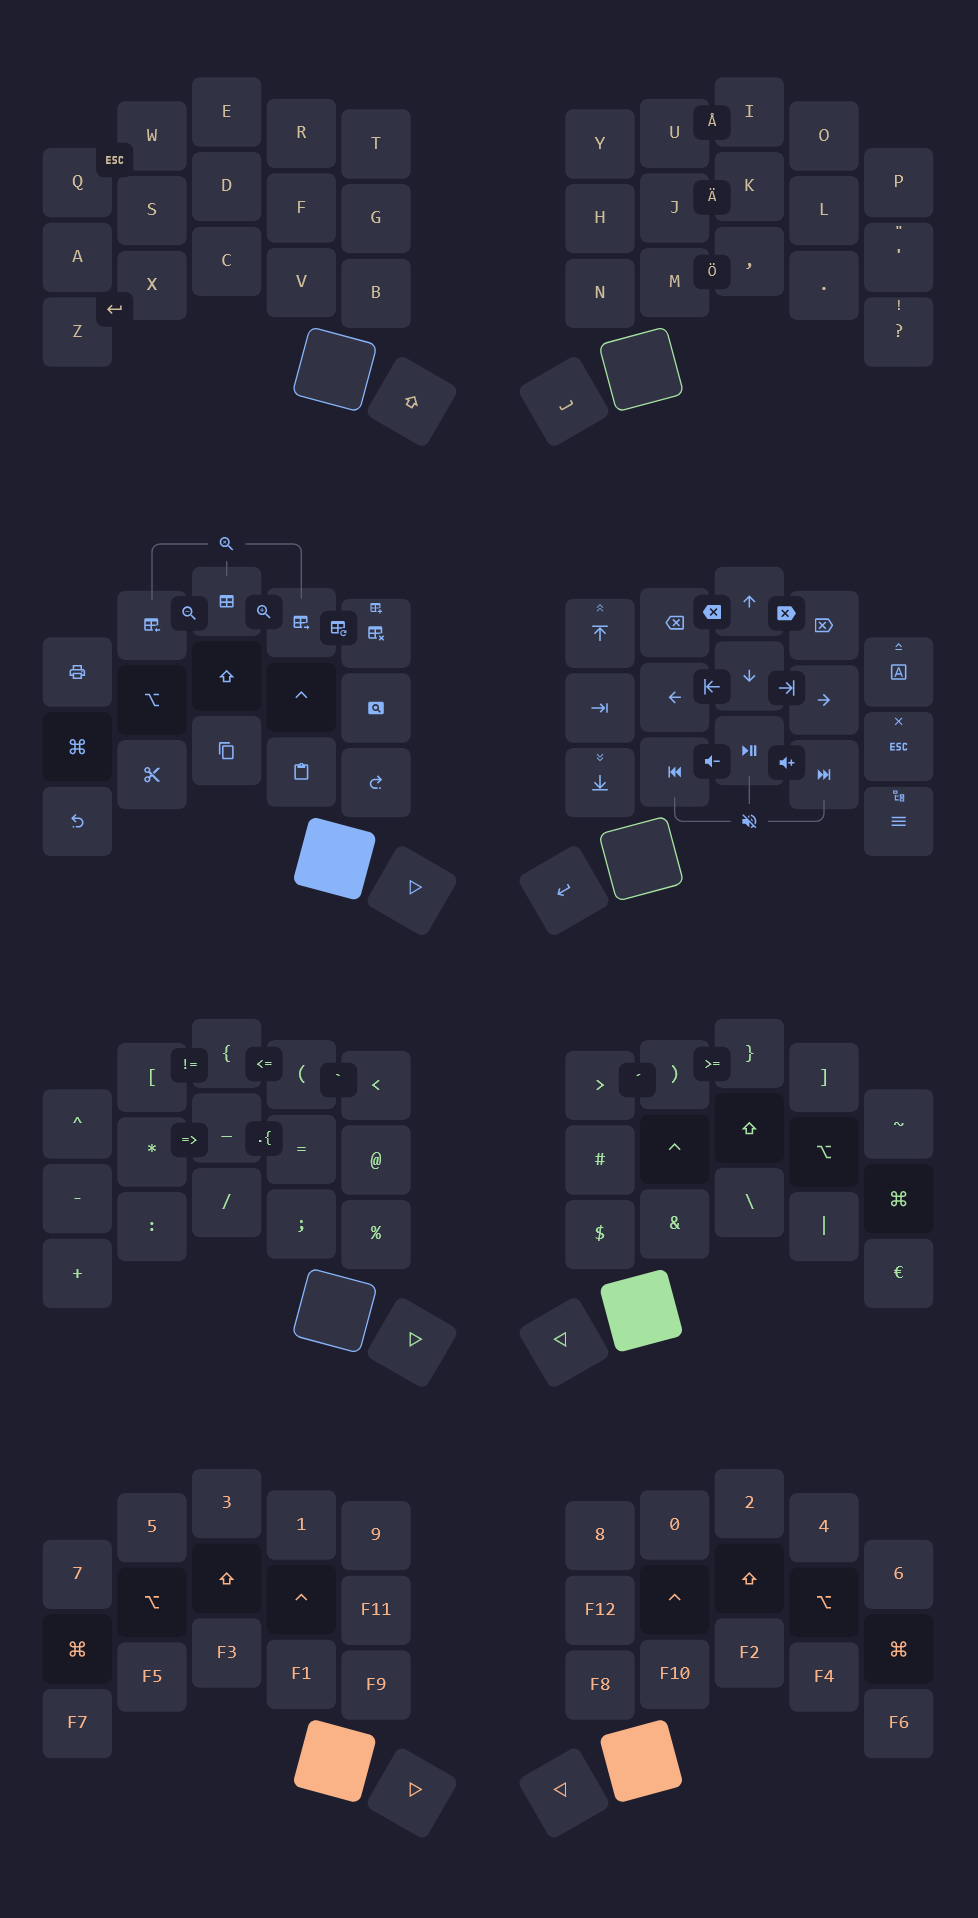
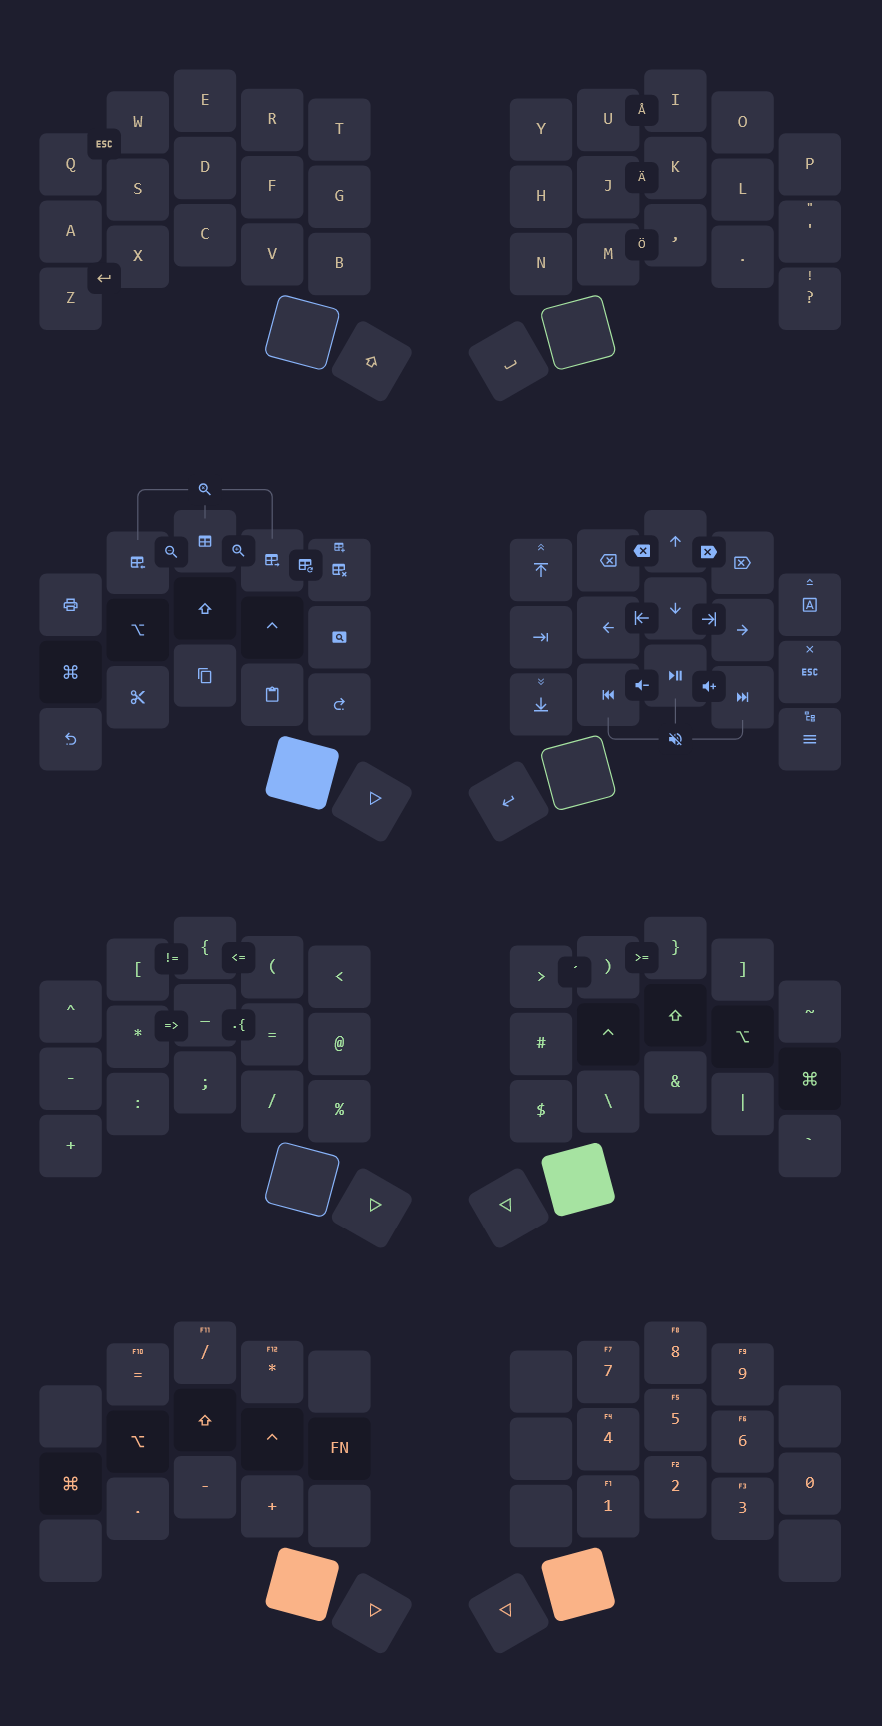
add oneshot fn and change to numpad layout

Changed region(s): [[0.6429, 0.7984, 0.949, 0.8905], [0.3367, 0.7984, 0.4286, 0.8598], [0.0612, 0.3685, 0.0918, 0.3992]]

diff --git a/ferris/features/oneshot_fn.c b/ferris/features/oneshot_fn.c
@@ -1,0 +1,35 @@
+#include "oneshot_fn.h"
+
+bool update_oneshot_fn(
+  bool *pending,
+  uint16_t trigger,
+  uint16_t keycode,
+  keyrecord_t *record
+) {
+  if (keycode == trigger) {
+    if (record->event.pressed) {
+      *pending = true;
+    }
+
+    return false;
+  }
+
+  if (!*pending) {
+    return true;
+  }
+
+  if (record->event.pressed) {
+    uint16_t fn_key = oneshot_fn_press_user(keycode);
+
+    if (fn_key != KC_NO) {
+      tap_code(fn_key);
+      *pending = false;
+      
+      return false;
+    }
+    
+    *pending = false;
+  }
+
+  return true;
+}

diff --git a/ferris/keymap.c b/ferris/keymap.c
@@ -13,6 +13,7 @@
 #include "features/tabber.h"
 #include "features/macro.h"
 #include "features/magic_caps.h"
+#include "features/oneshot_fn.h"
 
 enum layers {
   DEF,
@@ -47,16 +48,16 @@ const uint16_t PROGMEM keymaps[][MATRIX_ROWS][MATRIX_COLS] = {
   [SYM] = LAYOUT_ferris_hlc(
     SE_CIRC, SE_LBRC, SE_LCBR, SE_LPRN, SE_LABK,         SE_RABK, SE_RPRN, SE_RCBR, SE_RBRC, SE_TILD,
     SE_MINS, SE_ASTR, SE_UNDS, SE_EQL,  SE_AT,           SE_HASH, OS_CTRL, OS_SHFT, OS_ALT,  OS_GUI,
-    SE_PLUS, SE_COLN, SE_SLSH, SE_SCLN, SE_PERC,         SE_DLR,  SE_AMPR, SE_BSLS, SE_PIPE, SE_EURO,
+    SE_PLUS, SE_COLN, SE_SCLN, SE_SLSH, SE_PERC,         SE_DLR,  SE_BSLS, SE_AMPR, SE_PIPE, SE_GRV,
                                _______, _______,         KC_SPC,  _______,
 
     XXXXXXX, XXXXXXX, XXXXXXX, XXXXXXX, XXXXXXX,         XXXXXXX, XXXXXXX, XXXXXXX, XXXXXXX, XXXXXXX
   ),
 
   [NUM] = LAYOUT_ferris_hlc(
-    KC_7,    KC_5,    KC_3,    KC_1,    KC_9,            KC_8,    KC_0,    KC_2,    KC_4,    KC_6,
-    OS_GUI,  OS_ALT,  OS_SHFT, OS_CTRL, KC_F11,          KC_F12,  OS_CTRL, OS_SHFT, OS_ALT,  OS_GUI,
-    KC_F7,   KC_F5,   KC_F3,   KC_F1,   KC_F9,           KC_F8,   KC_F10,  KC_F2,   KC_F4,   KC_F6,
+    XXXXXXX, SE_EQL,  SE_SLSH, SE_ASTR, XXXXXXX,         XXXXXXX, KC_7,    KC_8,    KC_9,    XXXXXXX,
+    OS_GUI,  OS_ALT,  OS_SHFT, OS_CTRL, OS_FN,           XXXXXXX, KC_4,    KC_5,    KC_6,    KC_0,
+    XXXXXXX, SE_DOT,  SE_MINS, SE_PLUS, XXXXXXX,         XXXXXXX, KC_1,    KC_2,    KC_3,    XXXXXXX,
                                 _______, _______,        KC_SPC,  _______,
 
     XXXXXXX, XXXXXXX, XXXXXXX, XXXXXXX, XXXXXXX,         XXXXXXX, XXXXXXX, XXXXXXX, XXXXXXX, XXXXXXX
@@ -88,6 +89,7 @@ bool is_oneshot_ignored_key(uint16_t keycode) {
   case OS_CTRL:
   case OS_ALT:
   case OS_GUI:
+  case OS_FN:
     return true;
   default:
     return false;
@@ -118,6 +120,26 @@ tabber_t tabber = {
   .key = KC_TAB,
 };
 
+bool os_fn_pending = false;
+
+uint16_t oneshot_fn_press_user(uint16_t keycode) {
+  switch (keycode) {
+    case KC_1:    return KC_F1;
+    case KC_2:    return KC_F2;
+    case KC_3:    return KC_F3;
+    case KC_4:    return KC_F4;
+    case KC_5:    return KC_F5;
+    case KC_6:    return KC_F6;
+    case KC_7:    return KC_F7;
+    case KC_8:    return KC_F8;
+    case KC_9:    return KC_F9;
+    case SE_EQL:  return KC_F10;
+    case SE_SLSH: return KC_F11;
+    case SE_ASTR: return KC_F12;
+    default:      return KC_NO;
+  }
+}
+
 bool process_record_user(uint16_t keycode, keyrecord_t *record) {
   update_oneshot(
     &os_gui_state, KC_LGUI, OS_GUI,
@@ -138,6 +160,10 @@ bool process_record_user(uint16_t keycode, keyrecord_t *record) {
     &os_ctrl_state, KC_LCTL, OS_CTRL,
     keycode, record
   );
+
+  if (!update_oneshot_fn(&os_fn_pending, OS_FN, keycode, record)) {
+    return false;
+  }
 
   update_tabber(
     &tabber, TB_NEXT,
@@ -167,6 +193,7 @@ bool process_record_user(uint16_t keycode, keyrecord_t *record) {
 }
 
 layer_state_t layer_state_set_user(layer_state_t state) {
+  os_fn_pending = false; // cancel OS_FN on layer change
   return update_tri_layer_state(state, SYM, NAV, NUM);
 }
 

diff --git a/ferris/features/oneshot_fn.h b/ferris/features/oneshot_fn.h
@@ -1,0 +1,12 @@
+#pragma once
+
+#include QMK_KEYBOARD_H
+
+bool update_oneshot_fn(
+  bool *pending,
+  uint16_t trigger,
+  uint16_t keycode,
+  keyrecord_t *record
+);
+
+uint16_t oneshot_fn_press_user(uint16_t keycode);

diff --git a/ferris/keydefs/keycodes.h b/ferris/keydefs/keycodes.h
@@ -7,6 +7,7 @@ enum keycodes {
   OS_ALT,
   OS_SHFT,
   OS_CTRL,
+  OS_FN,
 
   TB_NEXT,
 